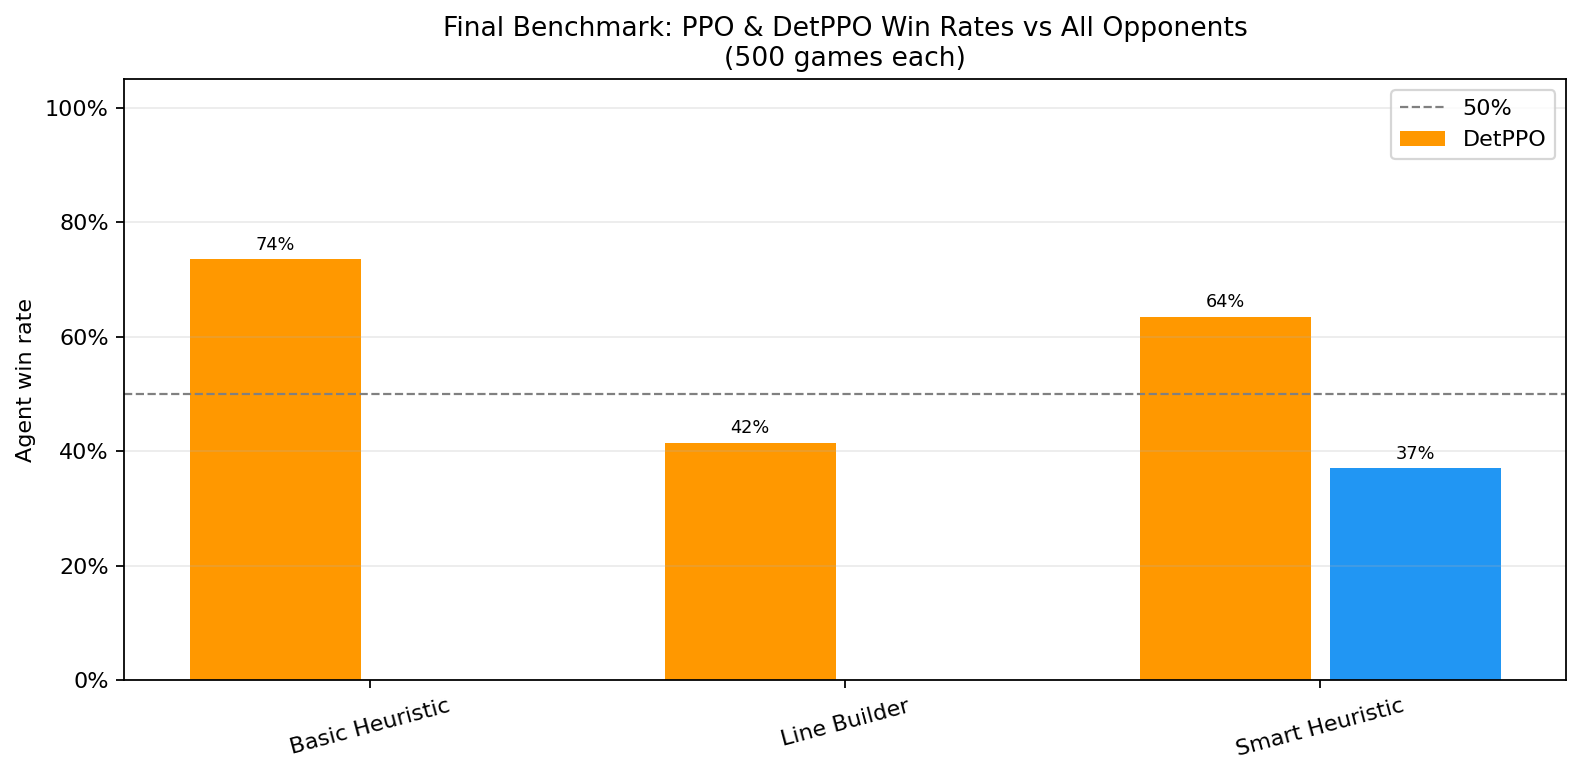
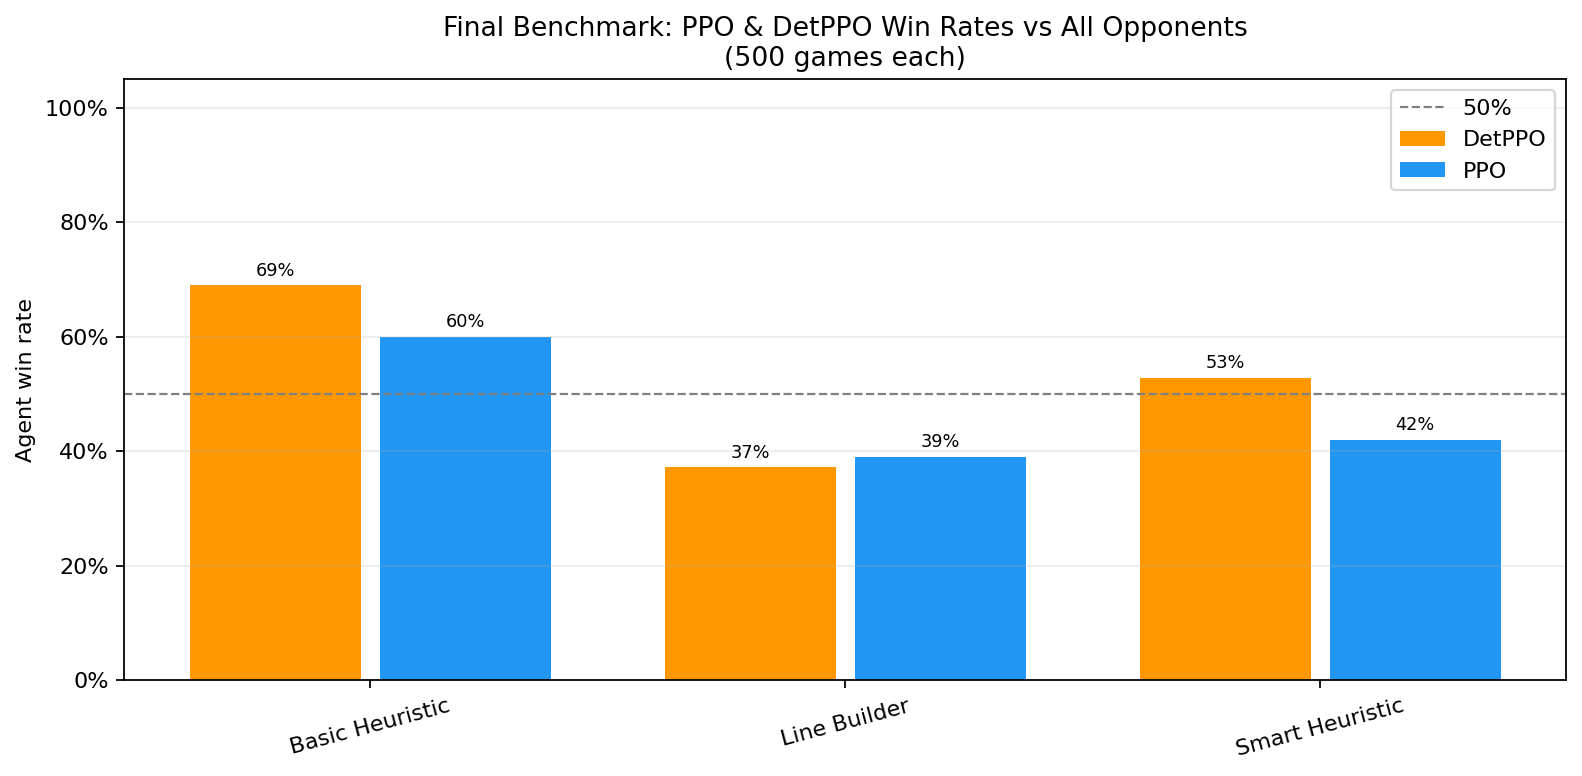
Update benchmark results with full 200-game PPO data
PPO (stochastic, 200 games): 42% vs smart heuristic, 39% vs line builder,
60% vs basic heuristic. Add non-obvious finding: line-builder beats smart
heuristic 62% despite being considered weaker, explaining why both PPO
variants struggle more against line-builder than heuristic.

diff --git a/REPORT.md b/REPORT.md
@@ -197,7 +197,7 @@ DetPPO converges to low entropy (~0.57 nats) — highly confident, deterministic
 | Agent | vs Smart Heuristic | vs Line Builder | vs Basic Heuristic |
 |---|--:|--:|--:|
 | DetPPO (300k) | **63.5%** | 41.5% | **73.5%** |
-| PPO (300k) | 37% | — | — |
+| PPO (300k) | 42% | 39% | 60% |
 
 The stochastic PPO achieves a lower final win rate vs the smart heuristic (37%) because it is not specialised: its training distribution includes line-builder and self-play opponents. Its advantage is **robustness** — it can handle diverse opponents it has never seen. DetPPO is the stronger specialist.
 
@@ -278,7 +278,7 @@ The teammate's AlphaZero agent (MCTS-guided, 50 simulations per move) achieves 6
 | DQN | 6k | 0% | Sparse reward; insufficient data |
 | PPO (sparse) | 6k | 6% | No curriculum; cold start |
 | **BC pretrain** | 0 PPO | **45%** | Imitation learning warm-start |
-| PPO (mixed, 300k) | 300k | 37% | Robustness over specialisation |
+| PPO (mixed, 300k) | 300k | 42% | Robustness over specialisation |
 | **DetPPO (300k)** | 300k | **63.5%** | Heuristic specialisation |
 
 ### 8.2 Why DetPPO Outperforms Stochastic PPO
@@ -289,15 +289,15 @@ Stochastic PPO maintains higher entropy and faces a heterogeneous training distr
 
 ### 8.3 Heuristic Opponent Ladder
 
-The matchup between fixed agents (from DetPPO benchmark) reveals the heuristic strength ordering:
+The matchup between fixed agents (200 games each) reveals the heuristic strength ordering:
 
 | Matchup | Winner win rate |
 |---|---|
-| Smart heuristic vs Basic | 84.5% |
-| Line-builder vs Basic | 81.5% |
-| Line-builder vs Smart heuristic | 62.5% |
+| Smart heuristic vs Basic | 83% |
+| Line-builder vs Basic | 82.5% |
+| **Line-builder vs Smart heuristic** | **62%** |
 
-Interestingly, **line-builder beats smart heuristic** (62.5%) because it builds very fast 5-diagonal threats that the heuristic's defensive scoring does not adequately weight. This explains why DetPPO (trained vs smart heuristic only) achieves only 41.5% against line-builder.
+Interestingly, **line-builder beats smart heuristic** (62% win rate) because it builds very fast 5-diagonal threats that the heuristic's defensive scoring does not adequately weight. This explains why both PPO variants struggle more against line-builder (39–41.5%) than against smart heuristic (42–63.5%) — despite the smart heuristic being the intended "strongest" opponent. This is a non-obvious finding: the tactical style matters more than overall strength.
 
 ---
 

diff --git a/README.md b/README.md
@@ -107,7 +107,7 @@ python -m app --simulate \
 | Agent | vs Smart Heuristic | vs Line Builder | vs Basic Heuristic |
 |---|--:|--:|--:|
 | **DetPPO (300k, TorchRL)** | **63.5%** | 41.5% | **73.5%** |
-| PPO (300k, TorchRL) | 37% | — | — |
+| PPO (300k, TorchRL) | 42% | 39% | **60%** |
 | BC pretrain only (0 PPO steps) | 45% | 44% | — |
 | DQN (6k episodes, sparse) | 0% | — | — |
 | PPO (6k episodes, sparse) | 6% | — | — |